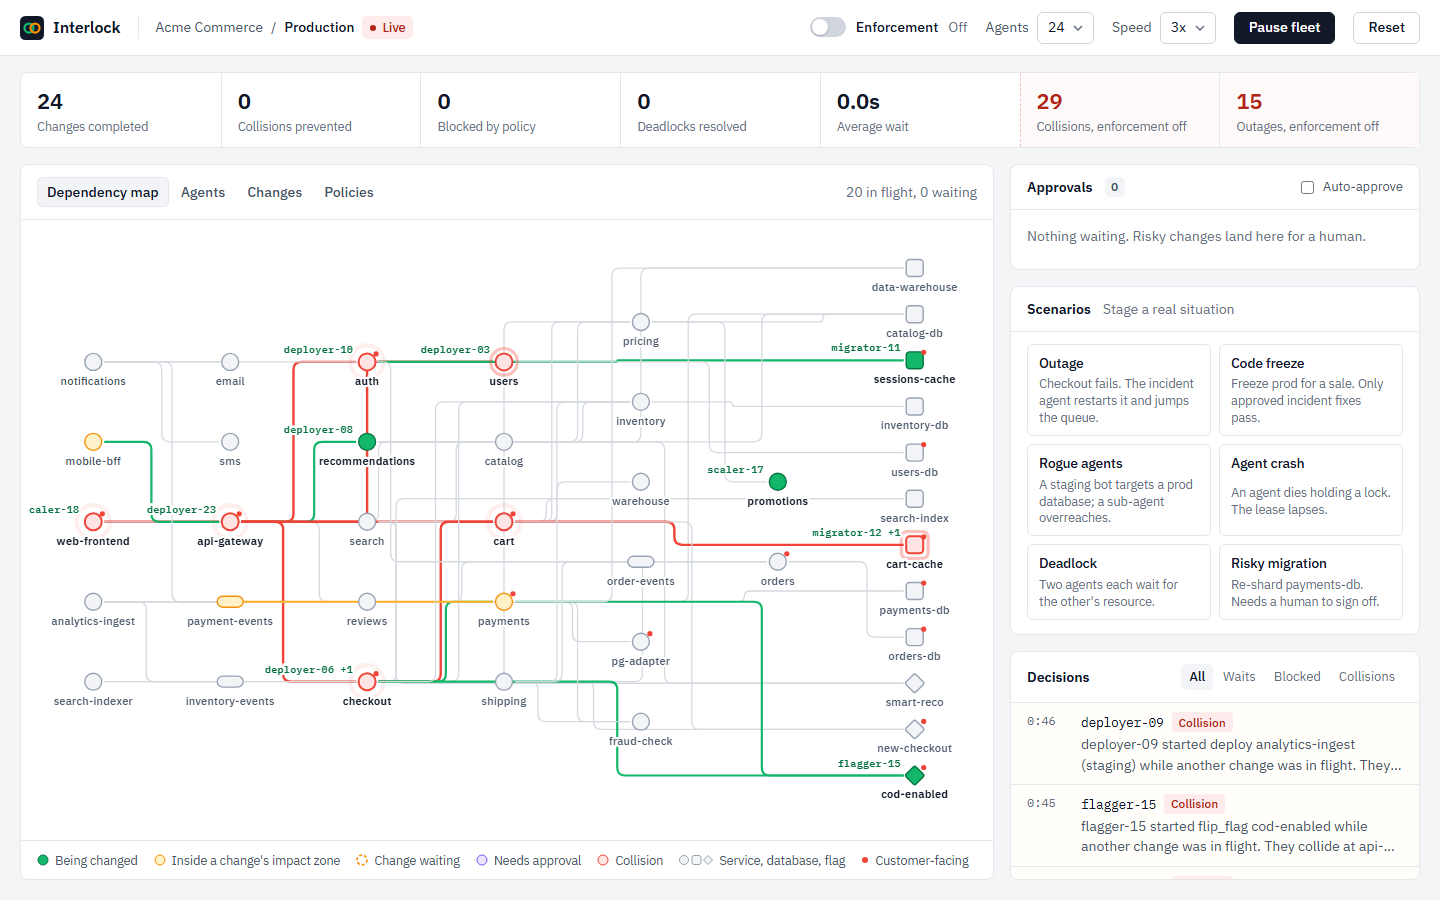
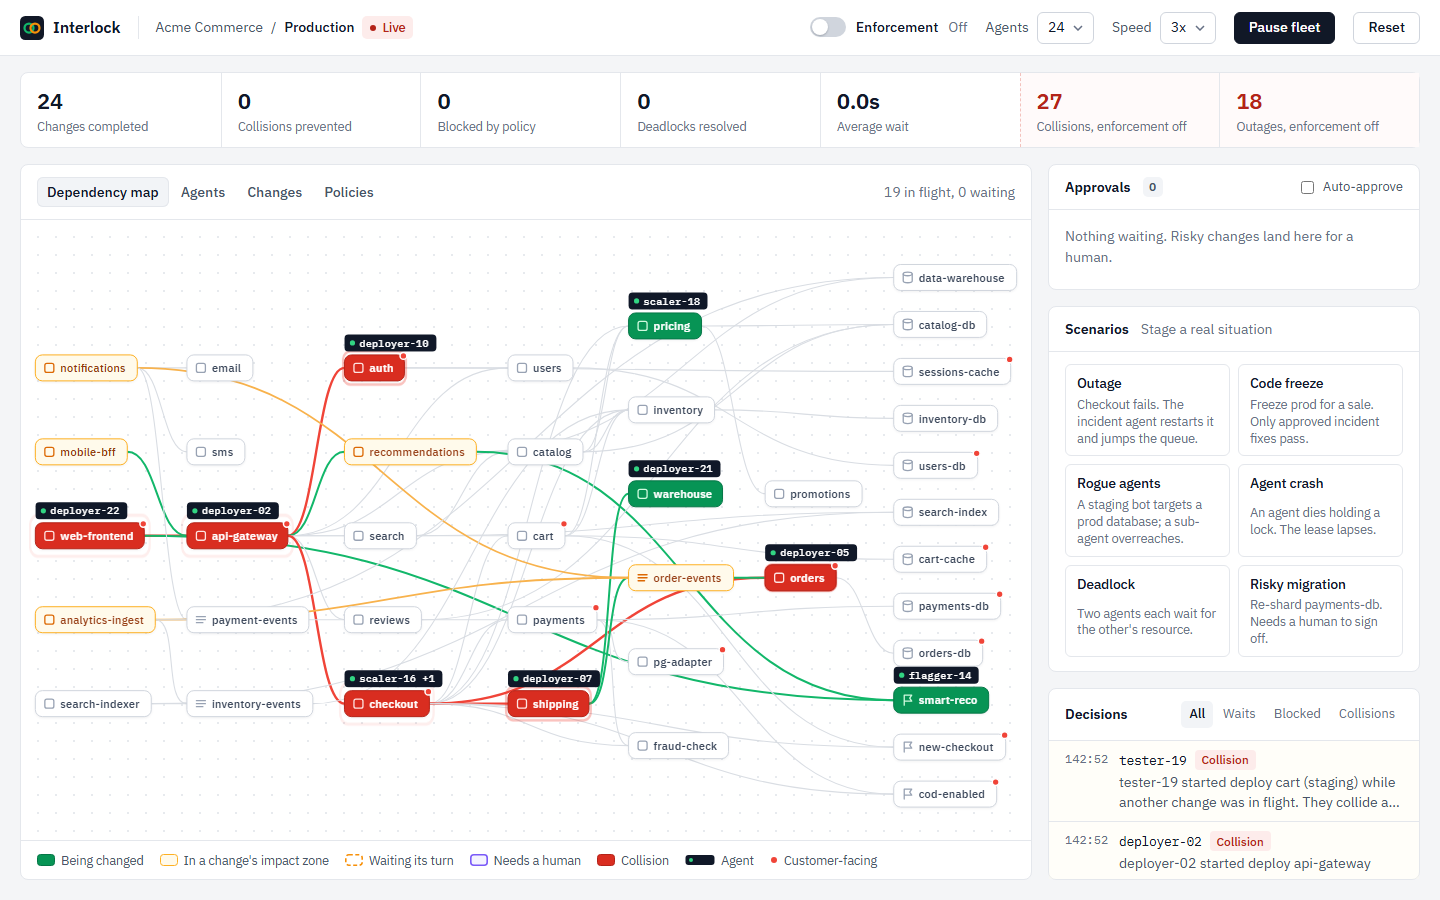
Blog post and refreshed screenshots

diff --git a/docs/blog.md b/docs/blog.md
@@ -1,0 +1,164 @@
+---
+title: "Graph Hacks diary: one dead idea, a night on Reddit, and locks for AI agents"
+published: false
+description: How I threw away my first hackathon project, found a better problem in Reddit comments, and built Interlock, a FalkorDB graph that stops AI agents from colliding in production.
+tags: ai, agents, graphdatabase, hackathon
+cover_image: https://raw.githubusercontent.com/piyushk-dev/interlock/main/docs/screens/live-desktop.png
+---
+
+## Friday: the idea I loved
+
+Graph Hacks started on a Thursday. By Friday night I had a project I was proud of.
+
+It was called Airside. You told it your passport and the visas you held, and it checked flight routes connection by connection. A layover in Frankfurt? Fine for you. A layover in London? You need a transit visa, unless you hold a US one. Every answer came with the rule behind it, pulled from a graph of 3,000 airports and 35,000 routes. It was clean. It was fast. It had a map.
+
+I showed it to a friend. He clicked around for a minute and said one sentence.
+
+"A chatbot can google that."
+
+I wanted to argue. I opened my mouth to argue. Then I closed it, because he was right. Airside was a nice interface over facts that already exist on the internet. A judge would ask the same question in the first ten seconds.
+
+So at 11 p.m. on Friday, with two days left, I had a working project and no reason for it to exist.
+
+## Saturday, 1 a.m.: Reddit
+
+I did what I should have done first. I stopped thinking about graphs and went to read what people were actually stuck on.
+
+Reddit blocks most scrapers, so I read it the slow way, thread by thread. I had one rule: read the comments, not just the posts. The posts tell you what happened. The comments tell you what hurts.
+
+Around 1 a.m., three threads sat next to each other in my tabs.
+
+> "An AI agent deleted our production database." (r/LocalLLM)
+
+> "Who approved the command, how do you prove what it did." (r/devops, on why security teams keep blocking AI agents)
+
+> "Merge conflicts, duplicated functions, agents working at cross-purposes." (r/ClaudeAI)
+
+None of these people were asking for a smarter agent. They had smart agents. Their problem was many agents at once, and nobody in charge of them.
+
+Then the picture came together. A large company does not run one agent. It runs dozens: one deploys, one migrates databases, one flips feature flags, one cleans up old data, one is somebody's coding assistant with a production token. Each one is careful. Each one checks its own work. And none of them can see the others.
+
+## The scene I kept picturing
+
+I could not stop imagining one night. I never saw it happen. I think it happens somewhere every week.
+
+It is 2:47 a.m. on the first night of a Diwali sale at an online store. The on-call engineer's phone buzzes twice, then does not stop. Checkout is failing for one customer in three.
+
+He asks what changed, and the answer is two lines:
+
+```text
+02:41  migrator-11   migrate  orders-db@prod   "add index for order history"   OK
+02:43  deployer-03   deploy   payments@prod    "v2.4 rollout"                  OK
+```
+
+Two agents, two green ticks. Both did exactly what they were asked. But the migration slowed `orders`, the new payments build retried harder, and `checkout` depends on both. The two tasks looked unrelated. In the dependency graph, they met at checkout.
+
+He rolls both back. Forty minutes later checkout is green again. The next day, security asks who approved the migration. The honest answer is that nobody did. The agent had a token, and the token had permission. Permission is not approval.
+
+![Both changes reach checkout](https://raw.githubusercontent.com/piyushk-dev/interlock/main/docs/screens/ex-step3.png)
+
+That was the moment it clicked for me. "Can this change run now?" is not a question about one service. It is a question about a graph: the target, everything that depends on it, every other change touching those things, the team that owns them, and the human behind the agent.
+
+A graph hackathon, and a problem that is a graph. I deleted nothing, moved Airside to a folder called `airside`, and started again.
+
+## Saturday: Interlock
+
+The idea fits in one sentence: an agent asks Interlock before it acts.
+
+It asks over MCP or plain HTTP, and it gets one of four answers: **granted**, **waiting**, **needs approval** or **denied**. Every answer is written into the graph before the agent acts. So the lock table, the rules and the audit trail all live in one FalkorDB graph.
+
+![Interlock graph model](https://raw.githubusercontent.com/piyushk-dev/interlock/main/docs/screens/graph-model.png)
+
+The first query I wrote finds the blast radius. A change to `orders-db` hurts more than `orders-db`; it hurts everything that depends on it. So Interlock walks the dependency edges backwards from the target, one to three hops depending on the action:
+
+```cypher
+MATCH (t:Resource {id: $target})
+OPTIONAL MATCH p = (d:Resource)-[:DEPENDS_ON*1..2]->(t)
+WITH t, d, min(length(p)) AS hops
+RETURN t.id AS target, collect({id: d.id, hops: hops, tier: d.tier}) AS zone
+```
+
+The second query is the one I am proudest of. Every lock manager has the same trap: two agents ask in the same millisecond, both pass the check, and both win. FalkorDB runs each write query atomically, so I made the check and the grant one statement:
+
+```cypher
+MATCH (n:Intent {id: $id})
+OPTIONAL MATCH (n)-[a:IMPACTS]->(r:Resource)<-[b:IMPACTS]-(g:Intent {status: 'granted'})
+WHERE g <> n AND (
+      (a.role = 'target' AND n.mode = 'exclusive')
+   OR (b.role = 'target' AND g.mode = 'exclusive')
+   OR (r.tier = 1 AND n.mode = 'exclusive' AND g.mode = 'exclusive'))
+WITH n, collect(DISTINCT g) AS blockers
+SET n.status = CASE WHEN size(blockers) = 0 THEN 'granted' ELSE 'waiting' END
+FOREACH (g IN blockers | MERGE (n)-[:WAITS_FOR]->(g))
+```
+
+The last line of the `WHERE` is the Diwali-night rule: two exclusive changes that both reach a customer-facing service cannot run together. `orders-db` and `payments` look far apart. The graph knows they are not.
+
+Then came the rules that answer the security team:
+
+- **Who is behind this agent?** Every agent must trace back to a human who can change the owning team's resources, through up to three sub-agents: `(h:Human)-[:AUTHORIZED]->(:Agent)-[:DELEGATED_TO*0..3]->(a)`. A sub-agent spawned by an agent with no authority over payments gets denied.
+- **Deadlocks** are cycles in the waits-on graph: `(a:Agent)-[:WAITS_ON*2..8]->(a)`. Interlock rolls back the less urgent agent.
+- **Crashes**: every lock is a lease. An agent that dies stops sending heartbeats, and its lock expires after 40 seconds.
+- **Freezes, environment scope and sign-off** for deletes in prod and payment database migrations.
+
+## Saturday night: the red map
+
+To show any of this, I needed agents. So I built a fake online store (40 production services, databases, topics and flags) and a fleet of 24 simulated agents that deploy, migrate, scale and flip flags all day. Then I added one switch: Enforcement on or off.
+
+The first time I turned enforcement off, the map went red in about four seconds. Cards flashing, collisions stacking up in the feed. I laughed out loud at 2 a.m., alone, which tells you something about hackathons.
+
+![Interlock console with 24 agents](https://raw.githubusercontent.com/piyushk-dev/interlock/main/docs/screens/live-desktop.png)
+
+Then I measured it properly: same fleet, same random seed, 180 simulated seconds.
+
+| | Without Interlock | With Interlock |
+|---|---:|---:|
+| Changes made | 255 | 107 |
+| Collided with another change in flight | 197 | 0 |
+| Collided on a customer-facing service | 116 | 0 |
+| Landed cleanly | 58 | 107 |
+| Average wait before a change starts | 0 s | 29.5 s |
+
+Without coordination, the fleet looks twice as busy. Most of that work collides. With Interlock, fewer changes go out, and all of them land. The 29.5-second wait is the price of a strict rule, and I left it in the results on purpose. I would rather show the cost than hide it.
+
+## Sunday: the parts nobody puts in the demo
+
+**Docker died.** Docker Desktop crashed on a stale socket and would not start again. FalkorDB is a Redis module, so I downloaded the module and ran it natively in WSL. It took ten minutes, and it never crashed once after that.
+
+**Cypher surprised me twice.** FalkorDB does not accept a parameter as a path length (`*1..$depth`). The error says "Encountered unhandled type in inlined properties", which took me a while to decode. Now the depth goes into the query text. I also learned to keep `ro_query` for reads only, after a write I had sent through it failed.
+
+**My first UI looked like every AI demo.** Pills, glowing gradients, a catchy hero line. The feedback was blunt: no slogans, say plainly what it is. So the product page now opens with "Interlock coordinates AI agents that change production." It is boring, and it is better. The map got rebuilt too: named cards instead of dots, curved edges, and a dark tag on each card for the agent that holds the lock.
+
+**The video voice kept changing accents.** I generated the narration clip by clip. Halfway through, I hit the free quota on one text-to-speech model and finished on another. Each clip sounded like a different person. I threw the whole thing away and regenerated every line with one Indian English voice from Sarvam's Bulbul v3. The lesson cost me an hour: one voice, one model, one setting, or nothing.
+
+![Every decision explains itself](https://raw.githubusercontent.com/piyushk-dev/interlock/main/docs/screens/card-desktop.png)
+
+## What I learned
+
+1. **Kill the idea, not the hackathon.** Airside worked. It was also pointless. One honest sentence from a friend saved the weekend.
+2. **Read the comments.** The best problem statements on Reddit were never in the posts.
+3. **An explanation beats a verdict.** "Waiting" makes an agent retry blindly. "Waiting for migrator-11, because both changes reach checkout" tells an agent, or a person, what to do.
+4. **A graph database can be a lock manager.** One atomic write query replaced the transaction protocol I thought I would need.
+5. **Policies should read like sentences.** When security asks what the rule is, I can show them the query.
+6. **Show the cost.** A 29.5-second wait is a real trade-off. Judges and users trust numbers that include the bad part.
+
+## Try it
+
+- **Live demo:** https://43.204.238.218.sslip.io. Open the console, turn Enforcement off and watch the map turn red. Then turn it back on.
+- **Code:** https://github.com/piyushk-dev/interlock. The README has the graph model, every Cypher query and the setup.
+- **Video:** https://github.com/piyushk-dev/interlock/releases/download/v1.0/interlock-demo.mp4
+
+You can put it in front of Claude Code too:
+
+```bash
+claude mcp add interlock \
+  -e INTERLOCK_URL=https://your-interlock \
+  -e INTERLOCK_AGENT=claude-code \
+  -- python -m interlock.mcp_server
+```
+
+Ask Claude to deploy something, and watch it ask first.
+
+---
+
+*Built for Graph Hacks 2026 by WeMakeDevs and FalkorDB. The Diwali-night outage is an imagined scene; the Reddit quotes, the code and the numbers are real. I built Interlock with help from Claude Code, and Sarvam Bulbul v3 narrated the demo video.*
